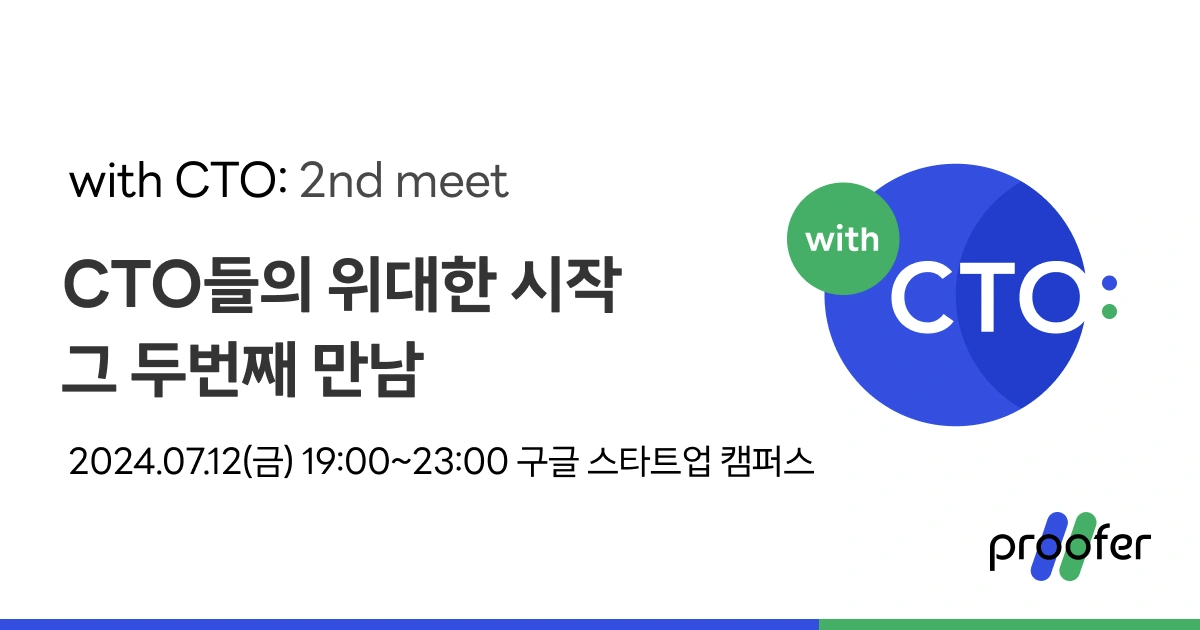
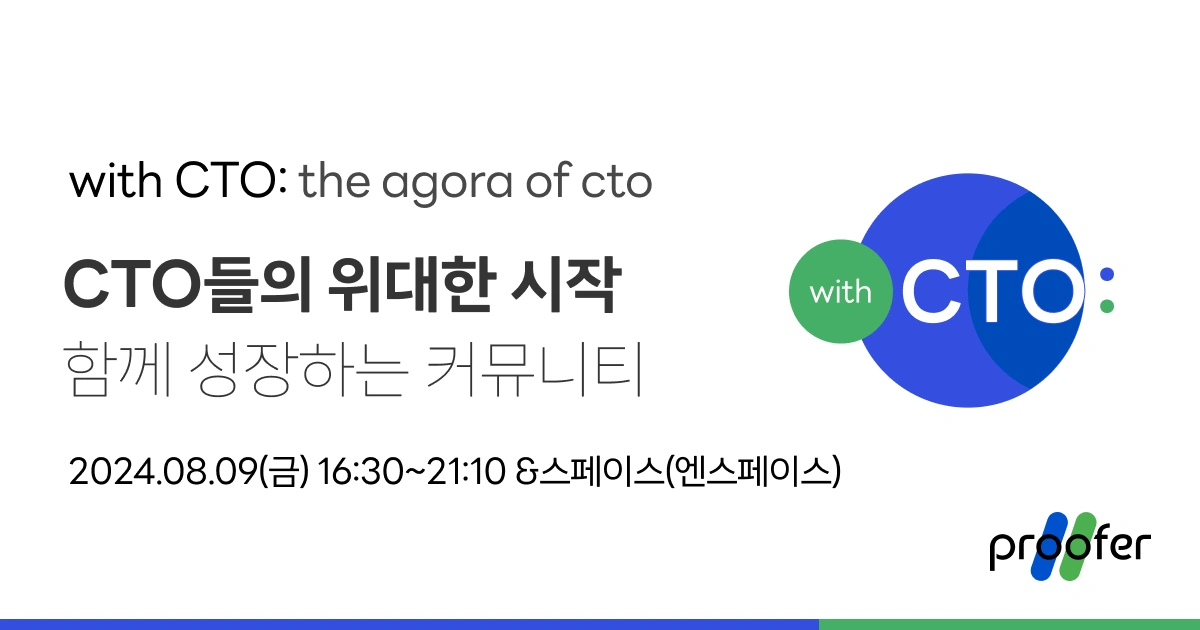
og image 변경 포함한 meta 변경

diff --git a/app/with-cto/(root)/layout.tsx b/app/with-cto/(root)/layout.tsx
@@ -1,7 +1,26 @@
 import "./global.scss";
 import WithCTOCustomerServiceWidget from "@/app/with-cto/components/WithCTOCustomerServiceWidget";
 import React from "react";
+import { merge } from "lodash";
+import { generateMetadataFromTitle } from "@/src/manifest";
 
+export const metadata = merge(
+  {
+    metadataBase: new URL("https://proofer.tech/"),
+    keywords: ["CTO", "CTO 커뮤니티", "컨퍼런스", "세미나"],
+    openGraph: {
+      locale: "ko",
+      type: "website",
+      url: "https://proofer.tech/with-cto",
+      images: ["/assets/images/with-cto/og-image.png"],
+    },
+  },
+  generateMetadataFromTitle({
+    title: "with CTO: the agora of CTO",
+    description:
+      "프루퍼팀에서 준비한 CTO 커뮤니티 CTO들의 위대한 시작, with CTO: the agora of CTO ... 구글 스타트업 캠퍼스 에서 만나요!",
+  }),
+);
 export default function Layout({ children }: any) {
   return (
     <>

diff --git a/app/with-cto/2nd/layout.tsx b/app/with-cto/2nd/layout.tsx
@@ -1,7 +1,26 @@
 import "./global.scss";
 import WithCTOCustomerServiceWidget from "@/app/with-cto/components/WithCTOCustomerServiceWidget";
 import React from "react";
+import { merge } from "lodash";
+import { generateMetadataFromTitle } from "@/src/manifest";
 
+export const metadata = merge(
+  {
+    metadataBase: new URL("https://proofer.tech/"),
+    keywords: ["CTO", "CTO 커뮤니티", "컨퍼런스", "세미나"],
+    openGraph: {
+      locale: "ko",
+      type: "website",
+      url: "https://proofer.tech/with-cto/2nd",
+      images: ["/assets/images/with-cto/og-image-2nd.png"],
+    },
+  },
+  generateMetadataFromTitle({
+    title: "with CTO: 2nd meet",
+    description:
+      "프루퍼팀에서 준비한 CTO 커뮤니티 CTO들의 위대한 시작, with CTO: the agora of CTO ... 구글 스타트업 캠퍼스 에서 만나요!",
+  }),
+);
 export default function Layout({ children }: any) {
   return (
     <>
